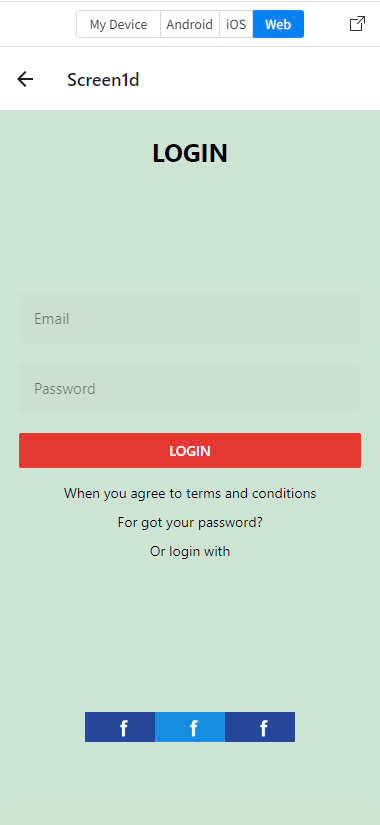
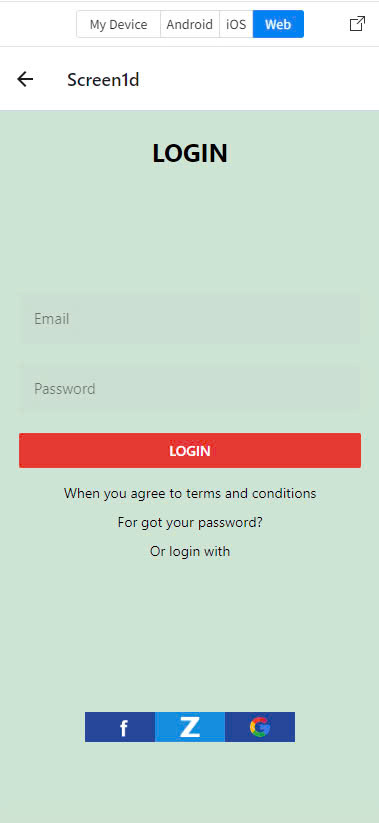
update

diff --git a/components/Screen1d.js b/components/Screen1d.js
@@ -49,7 +49,7 @@ export default function Screen1d() {
       }}
       >
        <Image
-    source={require('../assets/iconFacebook')}
+    source={require('../assets/iconzalo')}
     style={styles.icon}
       />
       </TouchableOpacity
@@ -79,7 +79,7 @@ export default function Screen1d() {
       }}
        >
        <Image
-    source={require('../assets/iconFacebook')}
+    source={require('../assets/icongoogle')}
     style={styles.icon}
       />
       </TouchableOpacity
